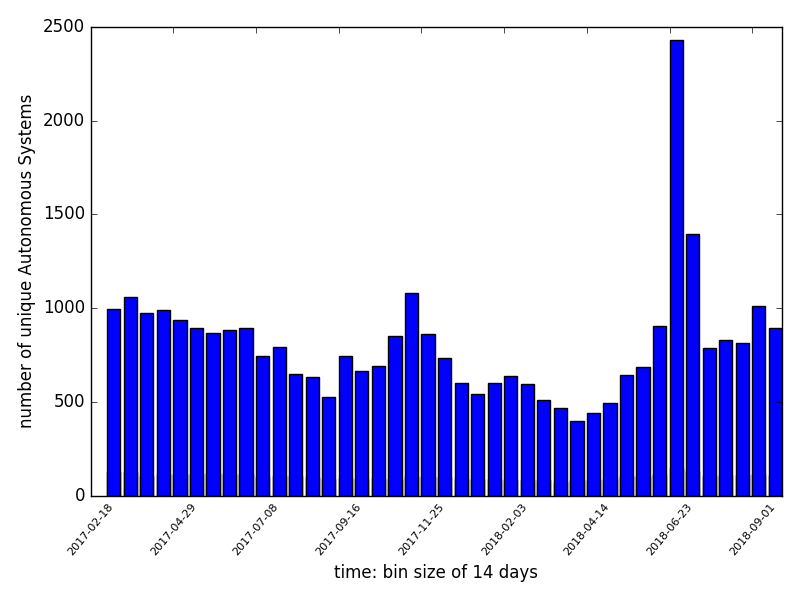
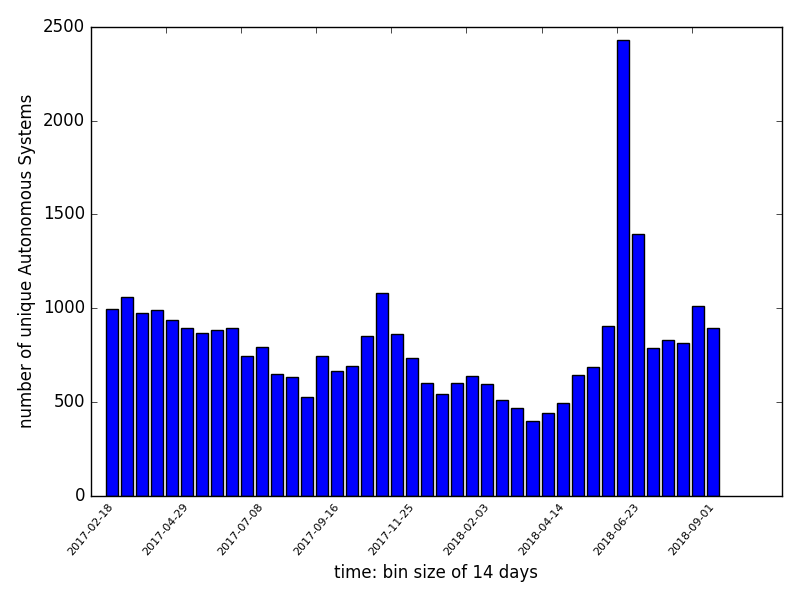
graphs for metrics

Changed region(s): [[0.125, 0.06, 1.0, 0.93], [0.5625, 0.87, 0.625, 0.93], [0.1875, 0.87, 0.2188, 0.93]]

diff --git a/metrics_graphs.py b/metrics_graphs.py
@@ -8,17 +8,19 @@ from matplotlib import rcParams
 rcParams.update({'figure.autolayout': True})
 
 # import data and convert to datetime
-data = pd.read_csv('data_miraibadpackets.csv', sep=';')
+data = pd.read_csv('data_miraibadpackets.csv', sep=';', na_filter = False)
+ips_per_country = pd.read_csv('total_ips_per_country.csv',na_filter = False)
 dfs = data['Date_First_Seen']
 dfs = [datetime.strptime(date, '%Y-%m-%d %H:%M:%S') for date in dfs]
 
-# create bins of 2 weeks each
+# create bins of 2 weeks each, for unique countries/AS graphs
 metric = list()
 d = timedelta(14) # 14 days
 start = dfs[len(dfs)-1]
 end = dfs[0]
 
 bins = 1
+totalInfCount = 0
 countries = set()
 autsys = set()
 binstart = start
@@ -26,11 +28,13 @@ c = len(dfs)
 while c > 0:
     c = c-1
     if dfs[c] - binstart > d:
-        metric.append([binstart,len(countries),len(autsys)])
+        metric.append([binstart,totalInfCount,len(countries),len(autsys)])
         bins = bins + 1
         binstart = dfs[c]
+        totalInfCount = 0
         countries = set()
         autsys = set()
+    totalInfCount = totalInfCount + 1
     countries.add(data['Country'][c])
     autsys.add(data['ASN'][c])
     #display progress
@@ -38,7 +42,7 @@ while c > 0:
         print "{0:.1f}%".format((len(dfs)-c)/float(len(dfs))*100)
         sys.stdout.write("\033[F")
 
-metric.append([binstart,len(countries),len(autsys)])
+metric.append([binstart,totalInfCount,len(countries),len(autsys)])
 print "100.0%"
 
 # create labels every 5 bars
@@ -51,11 +55,38 @@ while date < dfs[0]:
 plt.bar(range(0,len(metric)), [m[1] for m in metric])
 plt.xticks(range(-1,len(metric)-1,5), labels, rotation=50, fontsize=8)
 plt.xlabel("time: bin size of 14 days")
-plt.ylabel("number of unique countries")
-plt.savefig('images/metric_unique_countries.png')
+plt.ylabel("amount of new infections in dataset")
+plt.savefig('images/metric_total_infections.png')
+plt.gcf().clear()
 
 plt.bar(range(0,len(metric)), [m[2] for m in metric])
 plt.xticks(range(-1,len(metric)-1,5), labels, rotation=50, fontsize=8)
 plt.xlabel("time: bin size of 14 days")
+plt.ylabel("number of unique countries")
+plt.savefig('images/metric_unique_countries.png')
+plt.gcf().clear()
+
+plt.bar(range(0,len(metric)), [m[3] for m in metric])
+plt.xticks(range(-1,len(metric)-1,5), labels, rotation=50, fontsize=8)
+plt.xlabel("time: bin size of 14 days")
 plt.ylabel("number of unique Autonomous Systems")
 plt.savefig('images/metric_unique_as.png')
+plt.gcf().clear()
+
+perCountryY = []
+perCountryLabels = []
+for c,n in zip(ips_per_country['country'],ips_per_country['ips']):
+    ips = n/1000000.0
+    counts = data.Country.value_counts().get(c)
+    if counts > 0 and counts/ips > 100:
+        perCountryY.append(counts/ips)
+        perCountryLabels.append(c)
+
+plt.bar(range(0,len(perCountryY)), perCountryY)
+plt.xticks(range(1,len(perCountryY)+1), list(ips_per_country['country']), rotation=90, fontsize=6)
+plt.xlabel("countries (>100 infections per 1,000,000)")
+plt.ylabel("number of infections per 1,000,000 ips")
+plt.savefig('images/metric_per_country.png')
+plt.gcf().clear()
+
+
